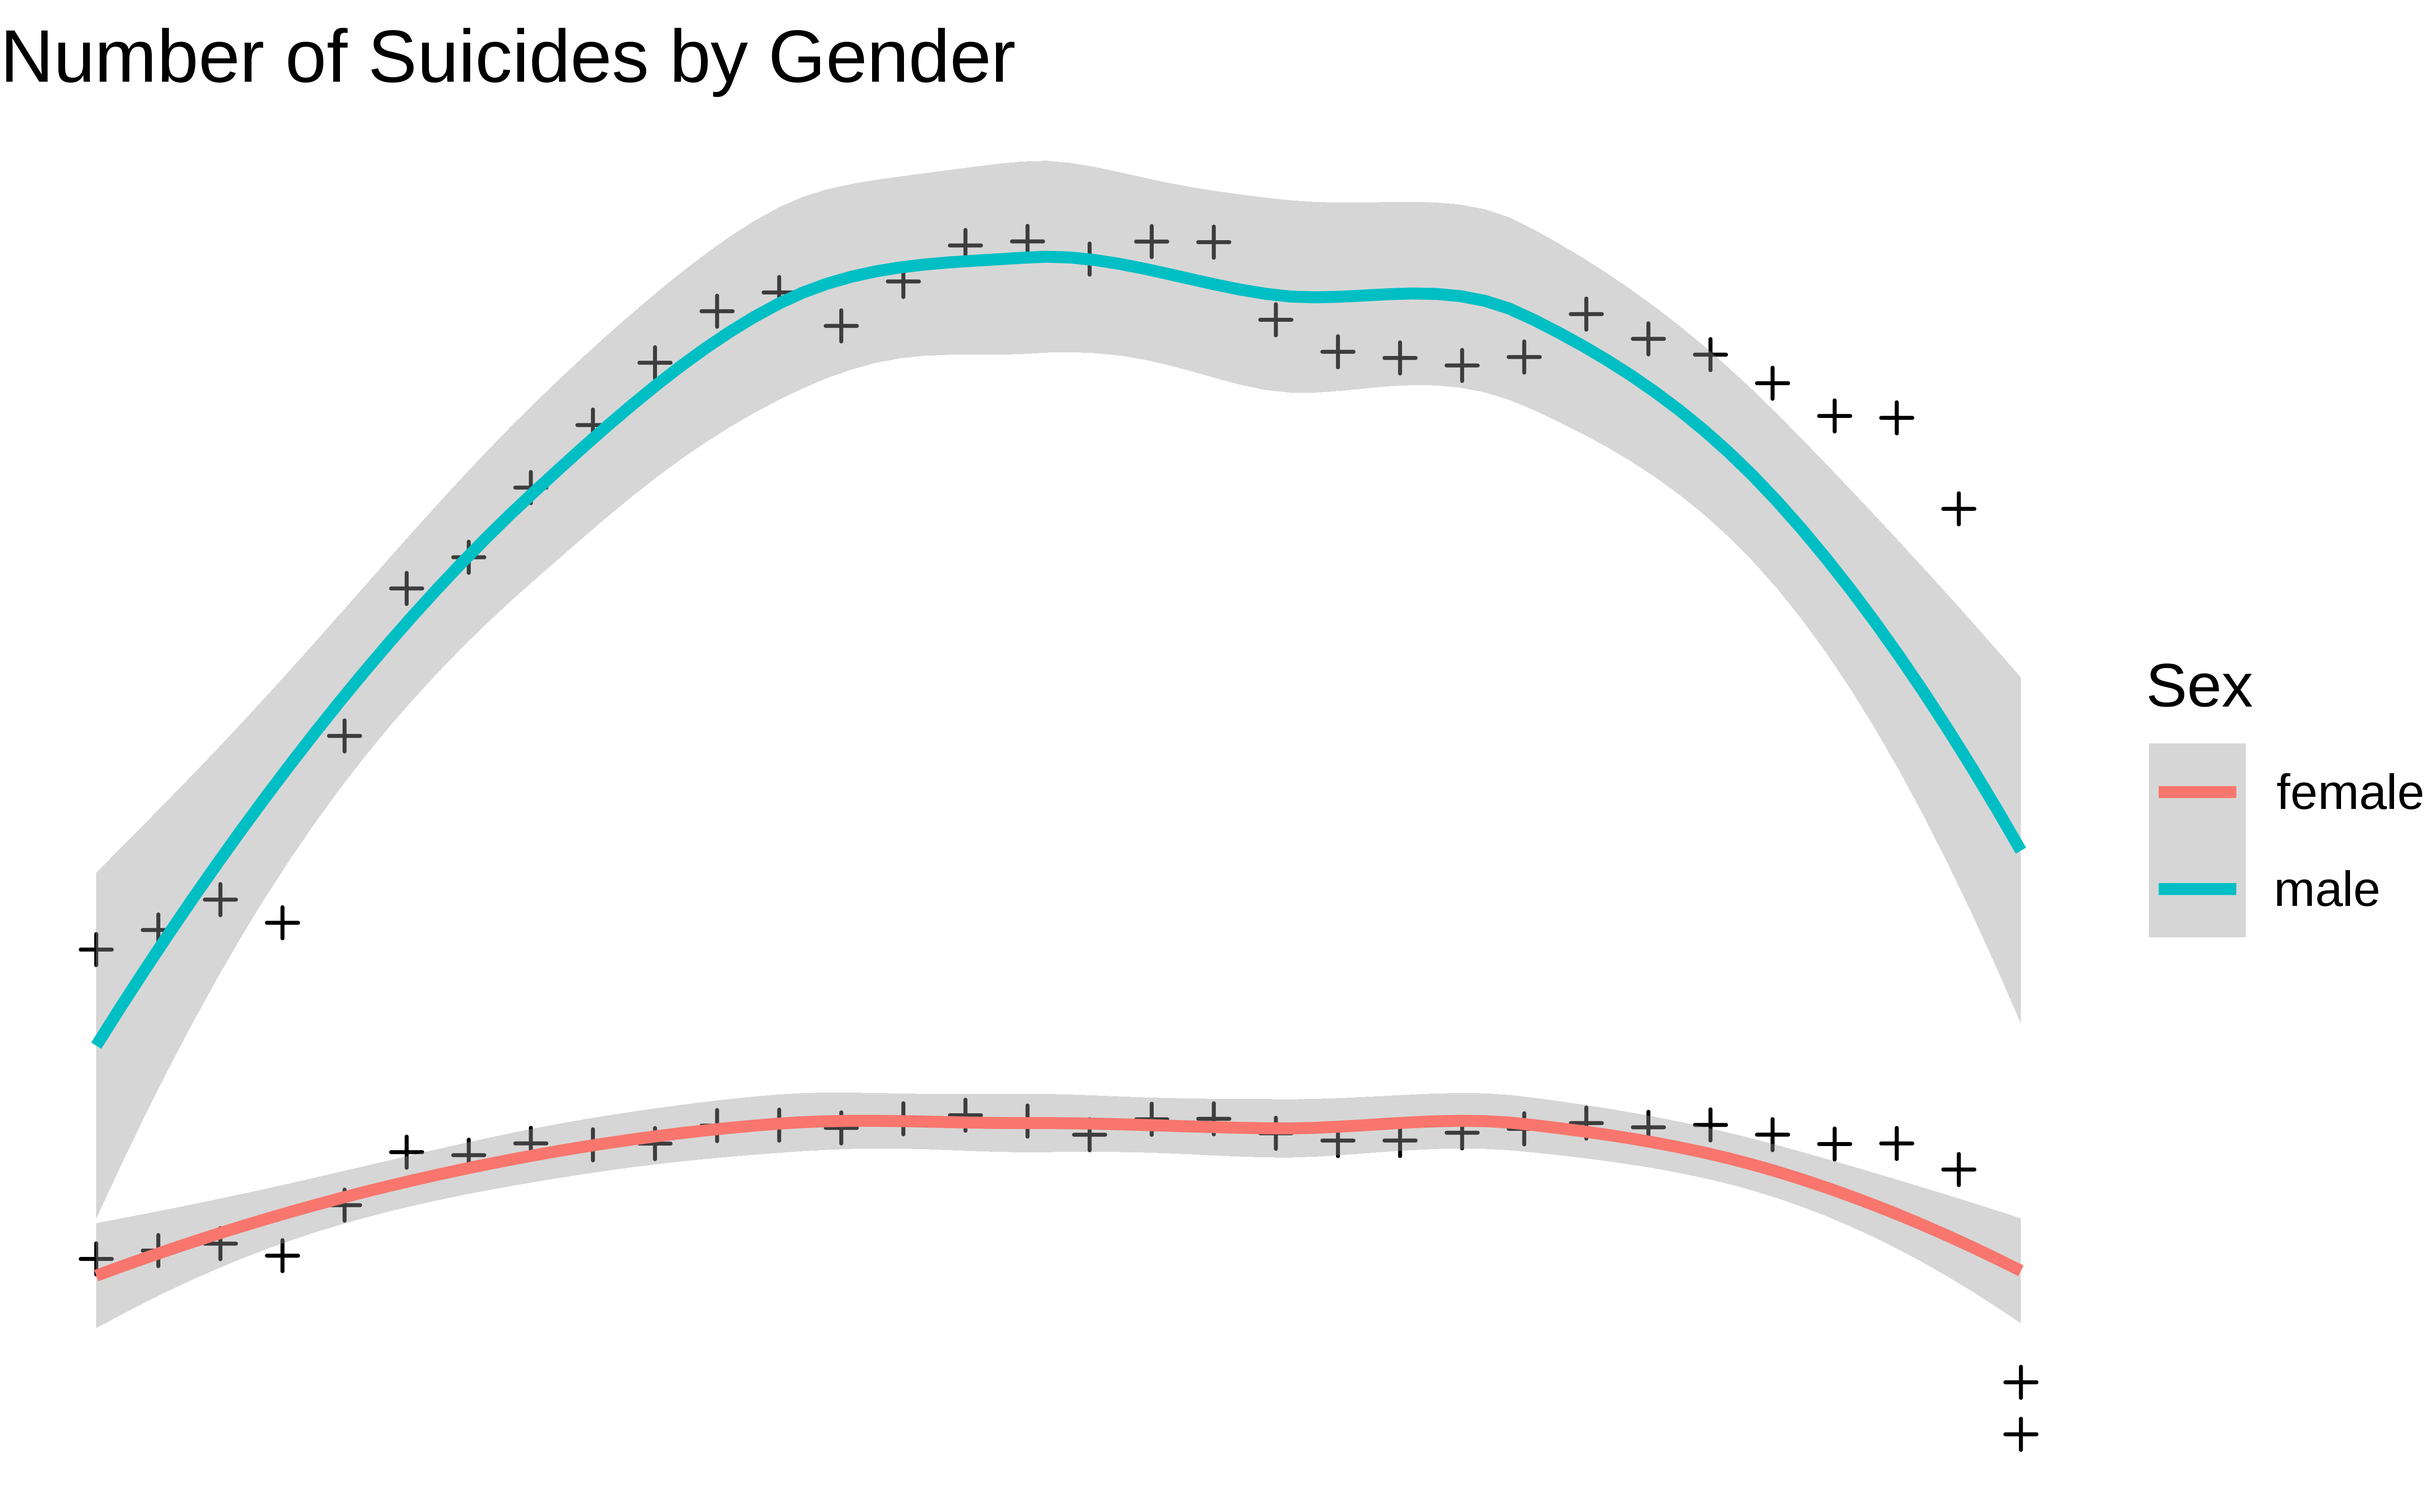
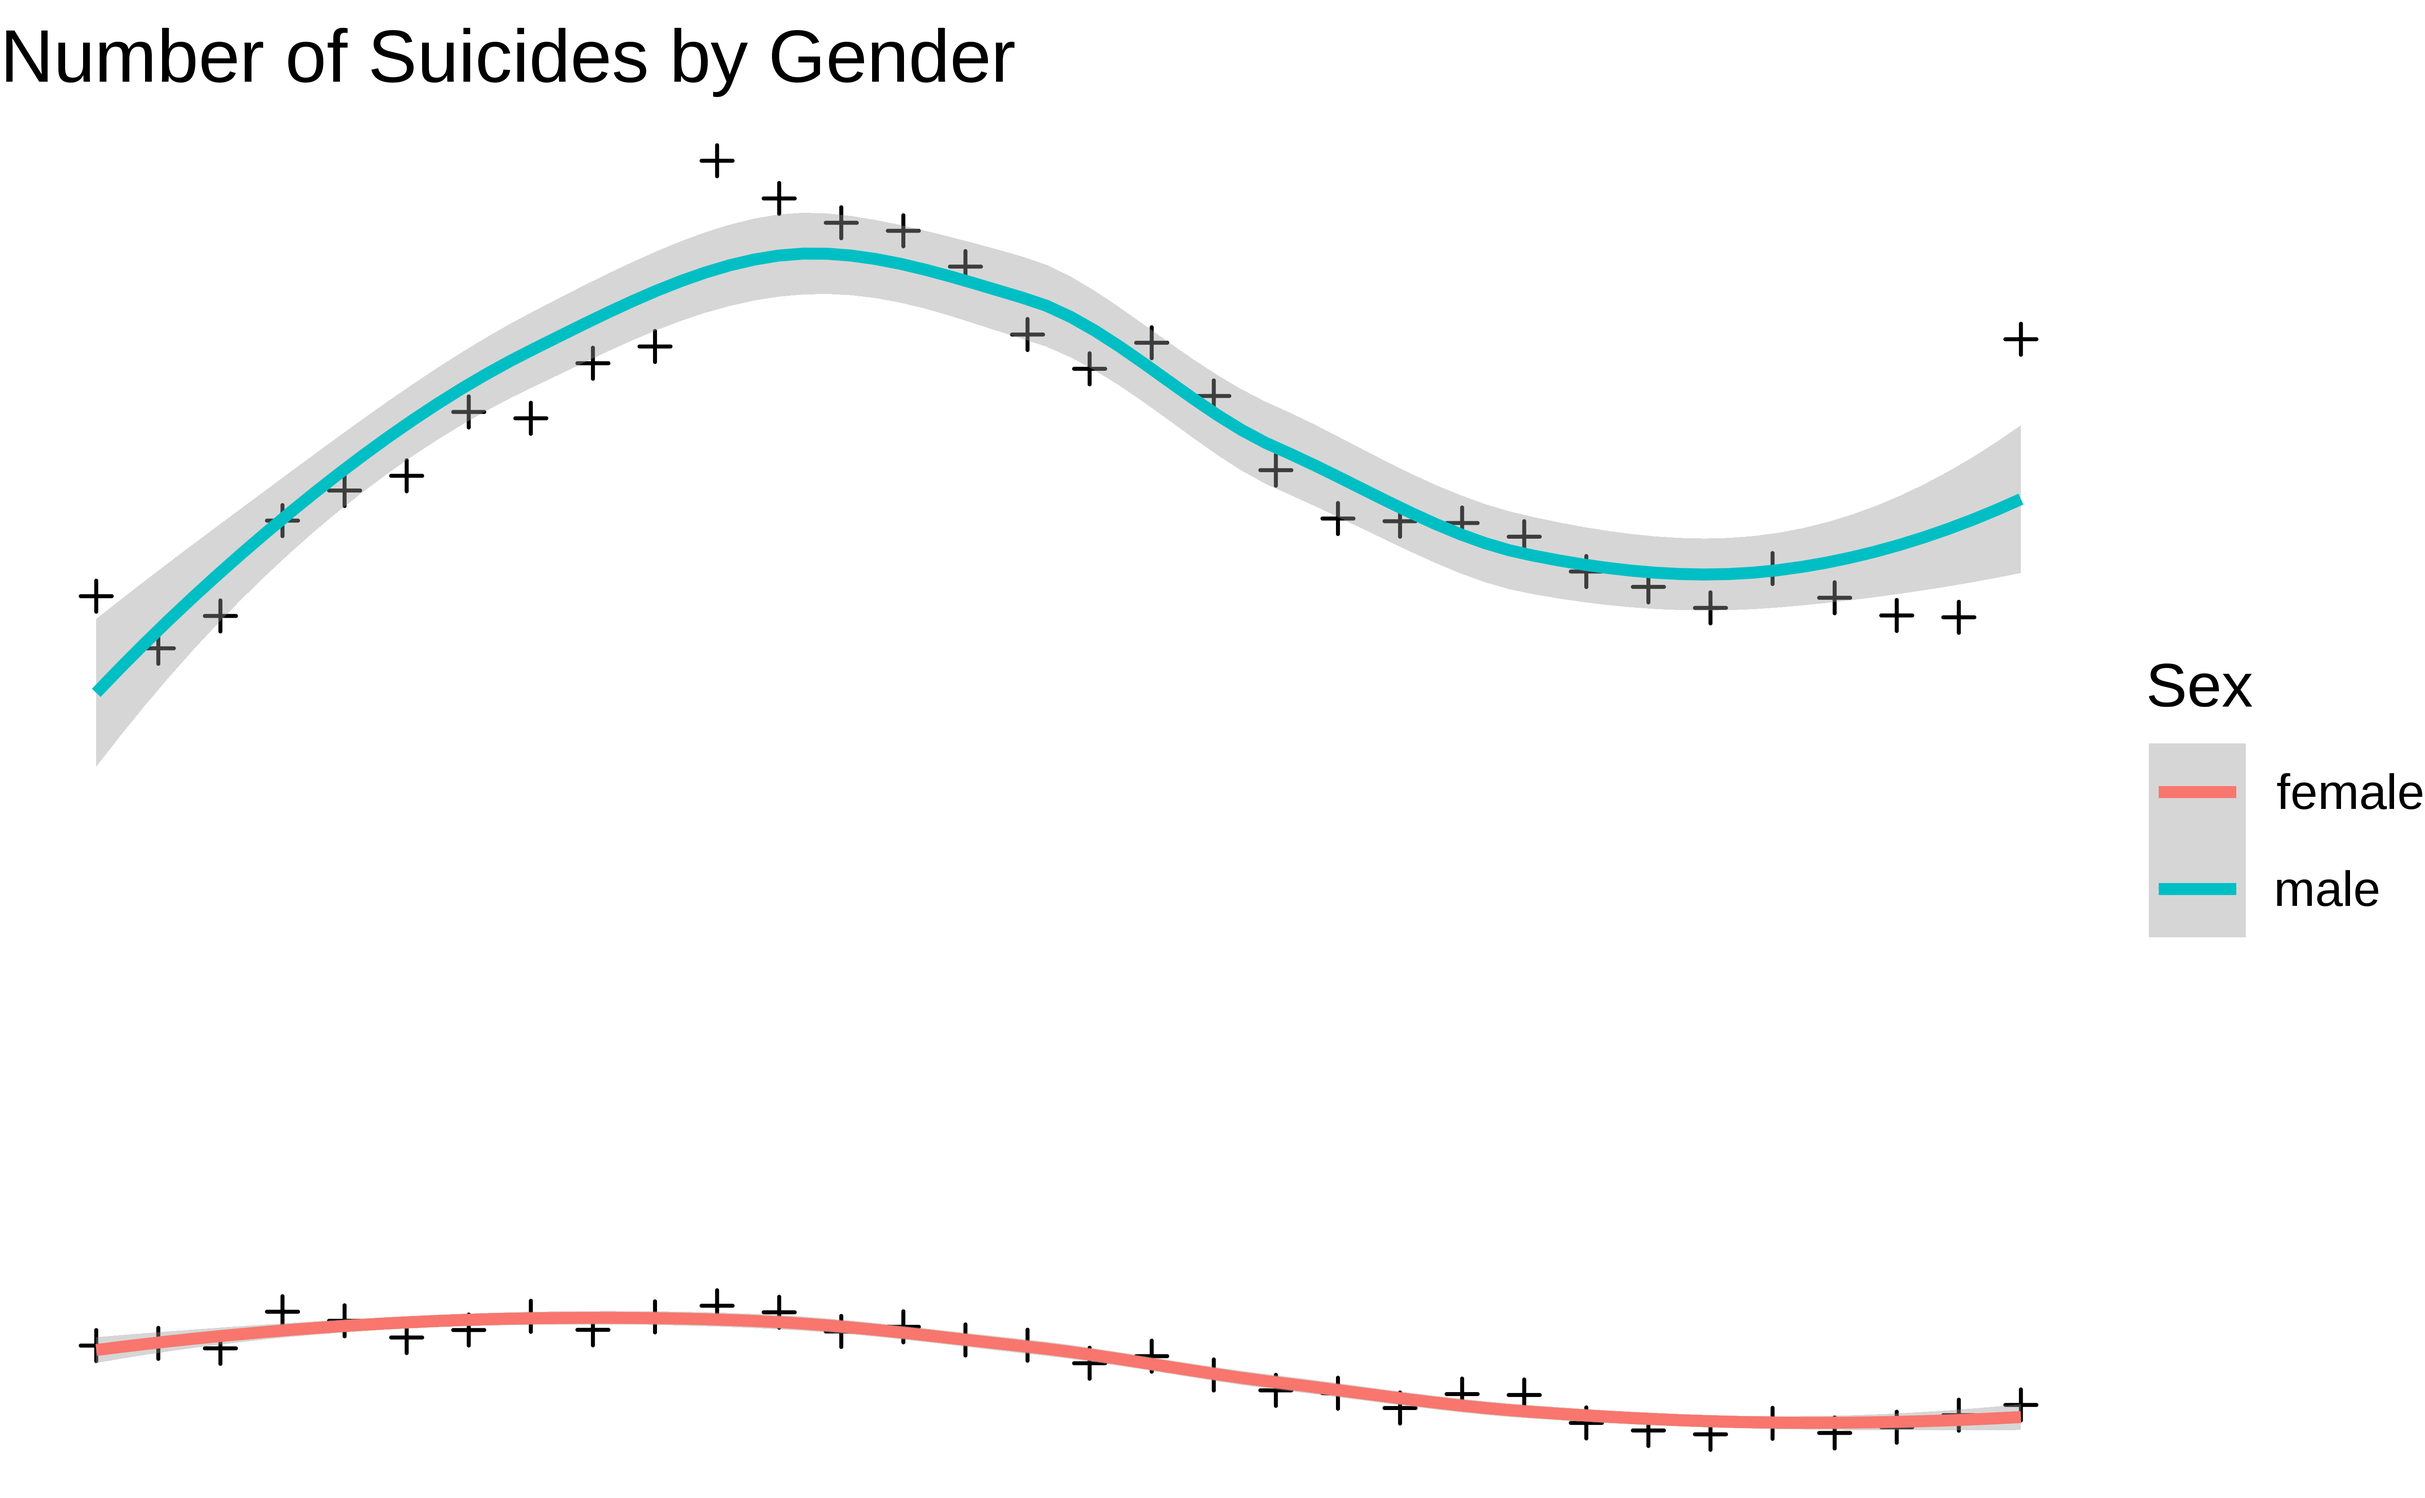
Presentation update

Changed region(s): [[0.0311, 0.0935, 0.84, 0.9661]]

diff --git a/presentation/presentation.html b/presentation/presentation.html
@@ -120,6 +120,30 @@ class: middle, center
 
 ---
 
+#Whats wrong with this graph?
+
+--
+
+.pull-left[
+&lt;font size="3"&gt;Although this is pre recorded, comment in the chat why you think there is a massive drop in suicides.&lt;/font&gt;
+]
+--
+.pull-right[
+
+```
+## `summarise()` ungrouping output (override with `.groups` argument)
+```
+
+&lt;img src="presentation_files/figure-html/First plot-1.png" width="60%" /&gt;
+]
+--
+
+.footnote[
+&lt;font size="5"&gt;Not all countries collected data for the early and late years, especially 2015.&lt;br&gt;&lt;br&gt;&lt;/font&gt;
+]
+
+---
+
 #Gender
 
 
@@ -131,39 +155,39 @@ class: middle, center
  &lt;thead&gt;
   &lt;tr&gt;
    &lt;th style="text-align:right;"&gt; year &lt;/th&gt;
-   &lt;th style="text-align:right;"&gt; suicide_count &lt;/th&gt;
+   &lt;th style="text-align:right;"&gt; suicide_mean &lt;/th&gt;
    &lt;th style="text-align:left;"&gt; sex &lt;/th&gt;
   &lt;/tr&gt;
  &lt;/thead&gt;
 &lt;tbody&gt;
   &lt;tr&gt;
-   &lt;td style="text-align:right;"&gt; 1999 &lt;/td&gt;
-   &lt;td style="text-align:right;"&gt; 56215 &lt;/td&gt;
+   &lt;td style="text-align:right;"&gt; 1995 &lt;/td&gt;
+   &lt;td style="text-align:right;"&gt; 6.420085 &lt;/td&gt;
    &lt;td style="text-align:left;"&gt; female &lt;/td&gt;
   &lt;/tr&gt;
   &lt;tr&gt;
-   &lt;td style="text-align:right;"&gt; 1998 &lt;/td&gt;
-   &lt;td style="text-align:right;"&gt; 55631 &lt;/td&gt;
+   &lt;td style="text-align:right;"&gt; 1988 &lt;/td&gt;
+   &lt;td style="text-align:right;"&gt; 6.323401 &lt;/td&gt;
    &lt;td style="text-align:left;"&gt; female &lt;/td&gt;
   &lt;/tr&gt;
   &lt;tr&gt;
-   &lt;td style="text-align:right;"&gt; 2003 &lt;/td&gt;
-   &lt;td style="text-align:right;"&gt; 55627 &lt;/td&gt;
+   &lt;td style="text-align:right;"&gt; 1996 &lt;/td&gt;
+   &lt;td style="text-align:right;"&gt; 6.314372 &lt;/td&gt;
    &lt;td style="text-align:left;"&gt; female &lt;/td&gt;
   &lt;/tr&gt;
   &lt;tr&gt;
-   &lt;td style="text-align:right;"&gt; 2002 &lt;/td&gt;
-   &lt;td style="text-align:right;"&gt; 55549 &lt;/td&gt;
+   &lt;td style="text-align:right;"&gt; 1992 &lt;/td&gt;
+   &lt;td style="text-align:right;"&gt; 6.249667 &lt;/td&gt;
    &lt;td style="text-align:left;"&gt; female &lt;/td&gt;
   &lt;/tr&gt;
   &lt;tr&gt;
-   &lt;td style="text-align:right;"&gt; 2000 &lt;/td&gt;
-   &lt;td style="text-align:right;"&gt; 55254 &lt;/td&gt;
+   &lt;td style="text-align:right;"&gt; 1994 &lt;/td&gt;
+   &lt;td style="text-align:right;"&gt; 6.240024 &lt;/td&gt;
    &lt;td style="text-align:left;"&gt; female &lt;/td&gt;
   &lt;/tr&gt;
   &lt;tr&gt;
-   &lt;td style="text-align:right;"&gt; 2009 &lt;/td&gt;
-   &lt;td style="text-align:right;"&gt; 54920 &lt;/td&gt;
+   &lt;td style="text-align:right;"&gt; 1989 &lt;/td&gt;
+   &lt;td style="text-align:right;"&gt; 6.176827 &lt;/td&gt;
    &lt;td style="text-align:left;"&gt; female &lt;/td&gt;
   &lt;/tr&gt;
 &lt;/tbody&gt;
@@ -175,39 +199,39 @@ class: middle, center
  &lt;thead&gt;
   &lt;tr&gt;
    &lt;th style="text-align:right;"&gt; year &lt;/th&gt;
-   &lt;th style="text-align:right;"&gt; suicide_count &lt;/th&gt;
+   &lt;th style="text-align:right;"&gt; suicide_mean &lt;/th&gt;
    &lt;th style="text-align:left;"&gt; sex &lt;/th&gt;
   &lt;/tr&gt;
  &lt;/thead&gt;
 &lt;tbody&gt;
   &lt;tr&gt;
-   &lt;td style="text-align:right;"&gt; 2000 &lt;/td&gt;
-   &lt;td style="text-align:right;"&gt; 200578 &lt;/td&gt;
+   &lt;td style="text-align:right;"&gt; 1995 &lt;/td&gt;
+   &lt;td style="text-align:right;"&gt; 24.90526 &lt;/td&gt;
    &lt;td style="text-align:left;"&gt; male &lt;/td&gt;
   &lt;/tr&gt;
   &lt;tr&gt;
-   &lt;td style="text-align:right;"&gt; 2002 &lt;/td&gt;
-   &lt;td style="text-align:right;"&gt; 200546 &lt;/td&gt;
+   &lt;td style="text-align:right;"&gt; 1996 &lt;/td&gt;
+   &lt;td style="text-align:right;"&gt; 24.29647 &lt;/td&gt;
    &lt;td style="text-align:left;"&gt; male &lt;/td&gt;
   &lt;/tr&gt;
   &lt;tr&gt;
-   &lt;td style="text-align:right;"&gt; 2003 &lt;/td&gt;
-   &lt;td style="text-align:right;"&gt; 200452 &lt;/td&gt;
-   &lt;td style="text-align:left;"&gt; male &lt;/td&gt;
-  &lt;/tr&gt;
-  &lt;tr&gt;
-   &lt;td style="text-align:right;"&gt; 1999 &lt;/td&gt;
-   &lt;td style="text-align:right;"&gt; 199904 &lt;/td&gt;
-   &lt;td style="text-align:left;"&gt; male &lt;/td&gt;
-  &lt;/tr&gt;
-  &lt;tr&gt;
-   &lt;td style="text-align:right;"&gt; 2001 &lt;/td&gt;
-   &lt;td style="text-align:right;"&gt; 197653 &lt;/td&gt;
+   &lt;td style="text-align:right;"&gt; 1997 &lt;/td&gt;
+   &lt;td style="text-align:right;"&gt; 23.90398 &lt;/td&gt;
    &lt;td style="text-align:left;"&gt; male &lt;/td&gt;
   &lt;/tr&gt;
   &lt;tr&gt;
    &lt;td style="text-align:right;"&gt; 1998 &lt;/td&gt;
-   &lt;td style="text-align:right;"&gt; 193960 &lt;/td&gt;
+   &lt;td style="text-align:right;"&gt; 23.77420 &lt;/td&gt;
+   &lt;td style="text-align:left;"&gt; male &lt;/td&gt;
+  &lt;/tr&gt;
+  &lt;tr&gt;
+   &lt;td style="text-align:right;"&gt; 1999 &lt;/td&gt;
+   &lt;td style="text-align:right;"&gt; 23.19631 &lt;/td&gt;
+   &lt;td style="text-align:left;"&gt; male &lt;/td&gt;
+  &lt;/tr&gt;
+  &lt;tr&gt;
+   &lt;td style="text-align:right;"&gt; 2000 &lt;/td&gt;
+   &lt;td style="text-align:right;"&gt; 22.09965 &lt;/td&gt;
    &lt;td style="text-align:left;"&gt; male &lt;/td&gt;
   &lt;/tr&gt;
 &lt;/tbody&gt;
@@ -221,9 +245,66 @@ class: middle, center
 #Gender graph plot
 
 
-
+--
+.pull-left[
 &lt;img src="presentation_files/figure-html/suicide_by_gender_plot-1.png" width="80%" /&gt;
+]
+.pull-right[
+&lt;ul&gt;
+&lt;br&gt;&lt;font size="4"&gt;&lt;li&gt;T&lt;/font&gt;
+&lt;br&gt;&lt;br&gt;
+--
+&lt;font size="4"&gt;This clearly supports the statistic that male suicide is more frequent than female.&lt;li&gt;.&lt;/font&gt;
+&lt;/ul&gt;
+]
+
 ---
+#What did we learn?
+
+&lt;ul&gt;
+&lt;br&gt;
+--
+&lt;font size="13"&gt;&lt;li&gt;Male suicide is much more common than female.&lt;br&gt;&lt;br&gt;&lt;/font&gt;
+
+--
+&lt;font size="13"&gt;&lt;li&gt;Male suicides spiked around 1995.&lt;br&gt;&lt;br&gt;&lt;/font&gt;
+
+--
+&lt;font size="13"&gt;&lt;li&gt;Female suicides are quite stable with no spikes&lt;br&gt;&lt;br&gt;&lt;/font&gt;
+&lt;/ul&gt;
+
+---
+
+#More on the age variable
+--
+
+&lt;font size="13"&gt;Type here&lt;br&gt;&lt;br&gt;&lt;/font&gt;
+--
+
+
+```
+## `summarise()` regrouping output by 'year' (override with `.groups` argument)
+```
+
+&lt;img src="presentation_files/figure-html/east-european-year-1.png" width="80%" /&gt;
+
+---
+#What did we learn?
+
+&lt;ul&gt;
+&lt;br&gt;
+--
+&lt;font size="13"&gt;&lt;li&gt;Type here&lt;br&gt;&lt;br&gt;&lt;/font&gt;
+
+--
+&lt;font size="13"&gt;&lt;li&gt;Type here&lt;br&gt;&lt;br&gt;&lt;/font&gt;
+
+--
+&lt;font size="13"&gt;&lt;li&gt;Type here&lt;br&gt;&lt;br&gt;&lt;/font&gt;
+&lt;/ul&gt;
+
+---
+
 #Human Development Index
 
 --
@@ -285,6 +366,7 @@ class: middle, center
 &lt;ul&gt;
 &lt;br&gt;&lt;font size="4"&gt;&lt;li&gt;The smooth line is using the formula 'y ~ x'.&lt;/font&gt;
 &lt;br&gt;&lt;br&gt;
+--
 &lt;font size="4"&gt;There is not much of a trend between HDI and suicide rates.&lt;li&gt;.&lt;/font&gt;
 &lt;/ul&gt;
 ]
@@ -302,6 +384,33 @@ class: middle, center
 
 --
 &lt;font size="13"&gt;&lt;li&gt;This shows most of the countries included in the ds had a relatively high HDI.&lt;br&gt;&lt;br&gt;&lt;/font&gt;
+&lt;/ul&gt;
+
+---
+
+#Age of victim
+
+--
+
+
+&lt;img src="presentation_files/figure-html/age-plot-1.png" width="80%" /&gt;
+
+--
+
+---
+
+#What did we learn?
+
+&lt;ul&gt;
+&lt;br&gt;
+--
+&lt;font size="13"&gt;&lt;li&gt;35-54 year olds seem to have the highest suicide count&lt;br&gt;&lt;br&gt;&lt;/font&gt;
+
+--
+&lt;font size="13"&gt;&lt;li&gt;Although this is the count so it does not take into play the rate.&lt;br&gt;&lt;br&gt;&lt;/font&gt;
+
+--
+&lt;font size="13"&gt;&lt;li&gt;The proportion of ages will be different.&lt;br&gt;&lt;br&gt;&lt;/font&gt;
 &lt;/ul&gt;
     </textarea>
 <style data-target="print-only">@media screen {.remark-slide-container{display:block;}.remark-slide-scaler{box-shadow:none;}}</style>
